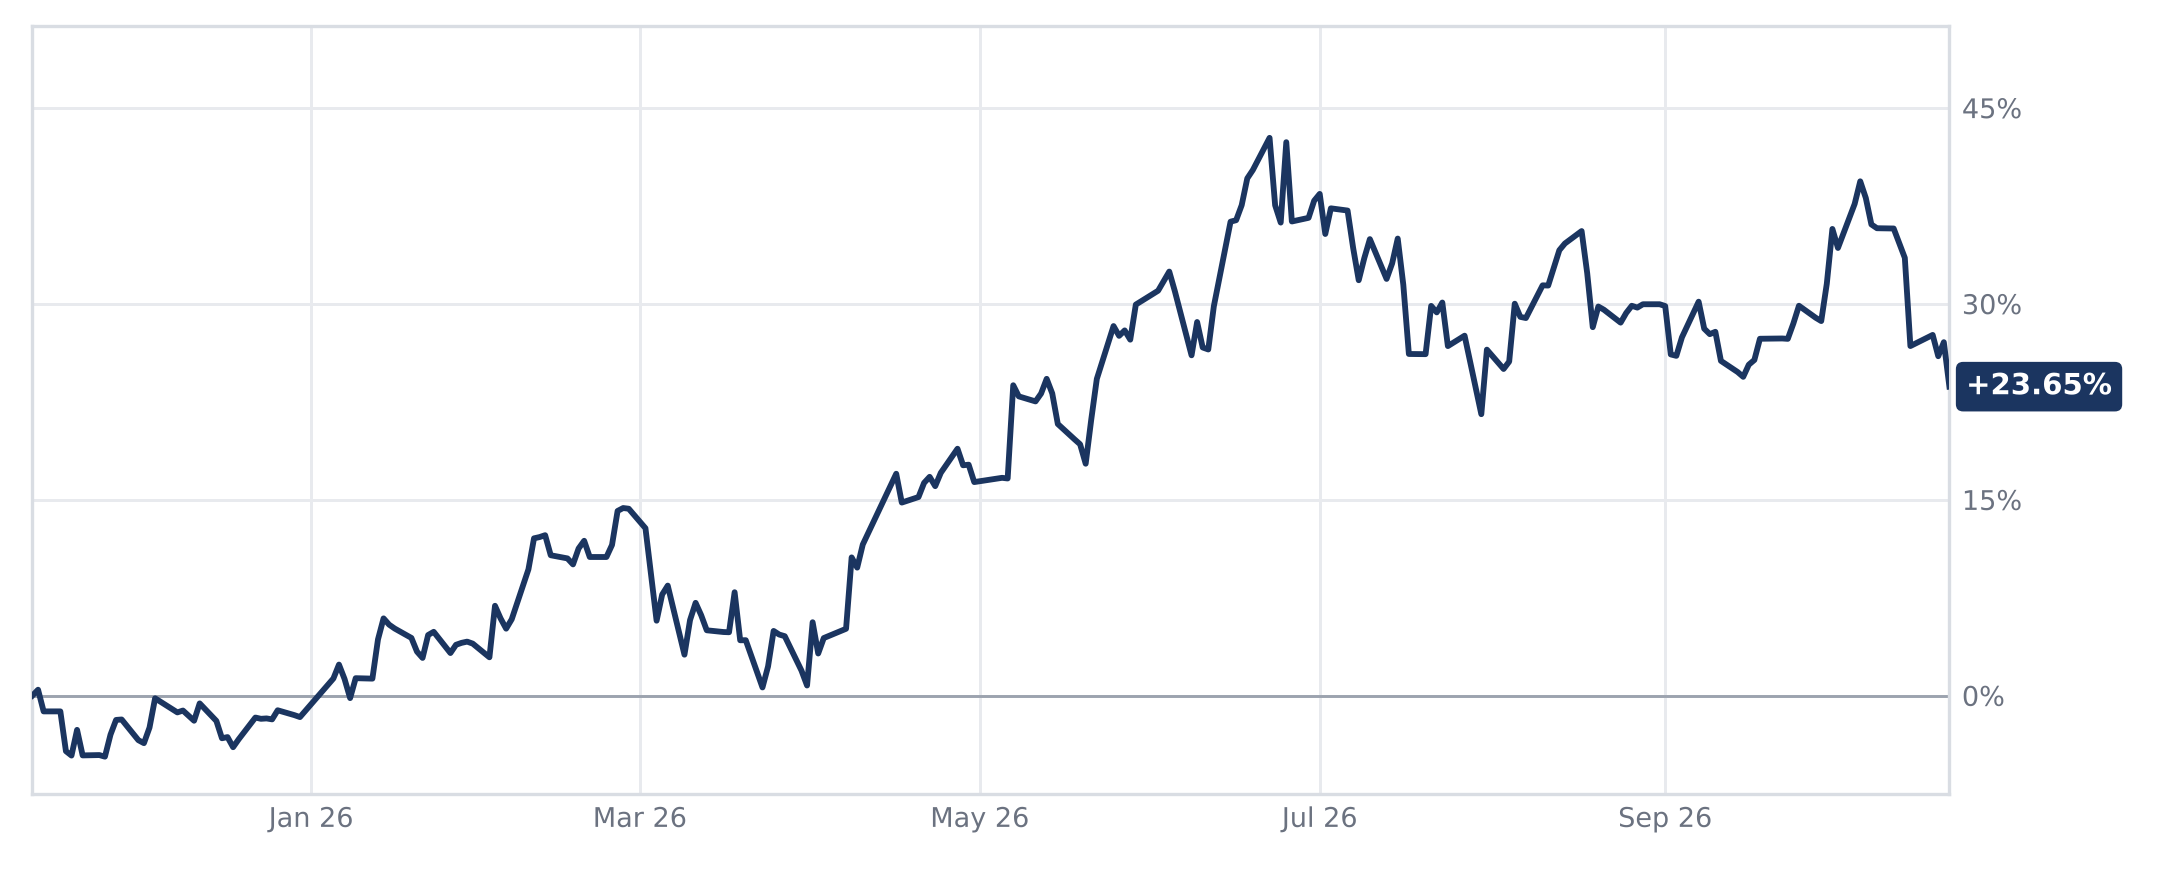
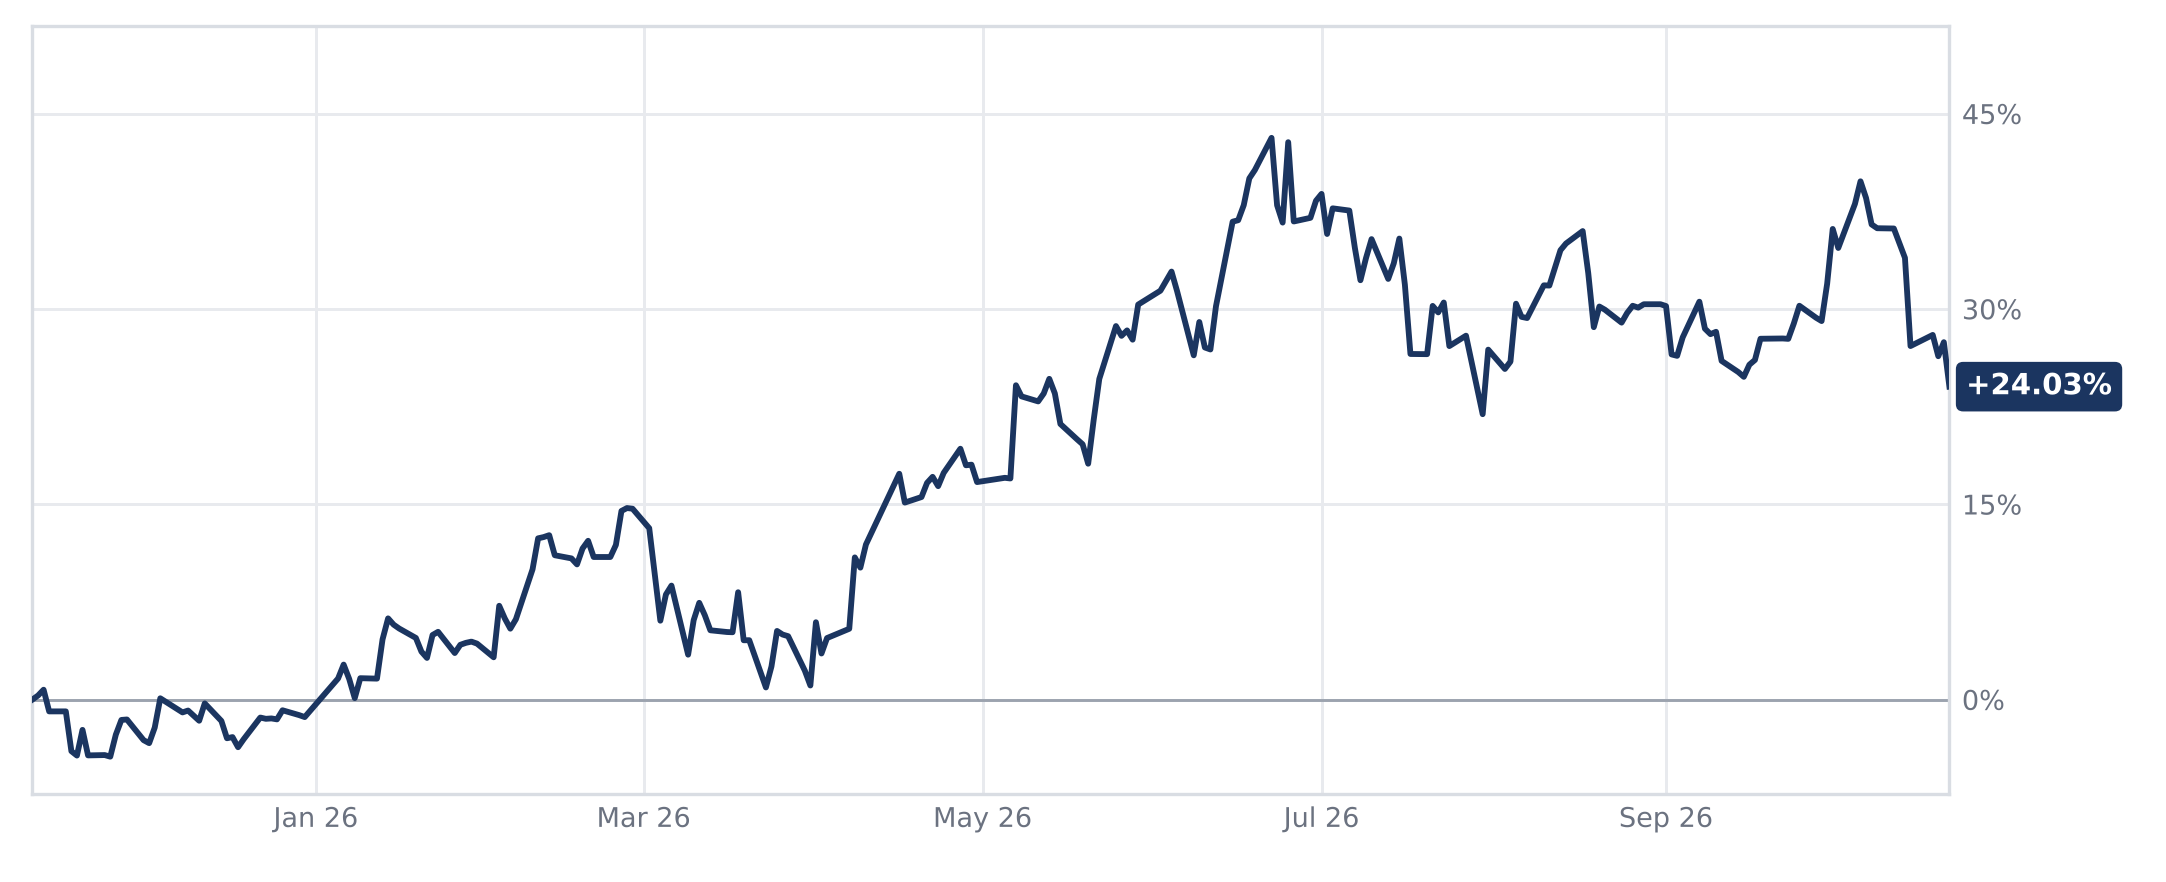
ใช้วันทำการถัดไปเฉพาะเมื่อวันแนะนำไม่มี NAV
Claude-Session: https://claude.ai/code/session_012hrKtuTeyfk9EuUED5ZPQ8

diff --git a/docs/index.html b/docs/index.html
@@ -169,11 +169,12 @@ const fmt = (v) => v == null ? "–" : (v > 0 ? "+" : "") + v.toFixed(2) + "%";
 const cls = (v) => v == null ? "" : v >= 0 ? "pos" : "neg";
 const thDate = (iso) => { if (!iso) return "–"; const [y,m,d] = iso.split("-"); return `${d}/${m}/${y}`; };
 
-/* NAV วันเริ่มต้น = NAV ที่ 0% บนกราฟ = วันทำการถัดจากวันแนะนำ */
+/* NAV วันเริ่มต้น = NAV ที่ 0% บนกราฟ ถ้าวันแนะนำไม่มี NAV จะเป็นวันทำการถัดไป (บอกวันที่กำกับไว้) */
 const baseDate = (f) => f.base_date || f.recommend_date;
 function startNavText(f) {
   if (f.base_nav == null) return "";
-  return ` · NAV วันเริ่มต้น ${f.base_nav.toFixed(4)} (ณ ${thDate(baseDate(f))})`;
+  const d = baseDate(f);
+  return ` · NAV วันเริ่มต้น ${f.base_nav.toFixed(4)}` + (d && d !== f.recommend_date ? ` (ณ ${thDate(d)})` : "");
 }
 
 function toast(msg) {

diff --git a/scripts/build_charts.py b/scripts/build_charts.py
@@ -76,8 +76,8 @@ def pct(a, b):
 
 
 def start_date(s: pd.Series, rec):
-    """วันเริ่มต้น = วันแรกที่มี NAV หลังวันแนะนำ (ไม่รวมวันแนะนำ)"""
-    after = s[s.index > pd.Timestamp(rec)]
+    """วันเริ่มต้น = วันแนะนำ ถ้าวันนั้นไม่มี NAV ใช้วันทำการถัดไป (แนะนำ 11/11 ไม่มี NAV → เริ่ม 12/11)"""
+    after = s[s.index >= pd.Timestamp(rec)]
     return after.index[0] if len(after) else s.index[-1]
 
 
@@ -87,7 +87,7 @@ def returns(s: pd.Series, rec):
     out = {"as_of": last_d.date().isoformat(), "nav": round(last, 4)}
     for k, days in [("1W", 7), ("1M", 30), ("3M", 91), ("6M", 182), ("1Y", 365)]:
         out[k] = pct(last, nav_on_or_before(s, last_d - timedelta(days=days)))
-    # ตั้งแต่แนะนำ: เทียบกับ NAV วันเริ่มต้น (วันทำการถัดจากวันแนะนำ) ให้ตรงกับ 0% บนกราฟ
+    # ตั้งแต่แนะนำ: เทียบกับ NAV วันเริ่มต้น ให้ตรงกับ 0% บนกราฟ
     out["since_rec"] = pct(last, float(s[start_date(s, rec)])) if rec else None
     return out
 
@@ -282,8 +282,8 @@ def main():
             "info": report.get("funds", {}).get(f["name"], {}),
         }
         if f["name"] in series:
-            # เริ่มกราฟที่ NAV วันทำการถัดจากวันแนะนำ (แนะนำ 11/11 → เริ่ม 12/11)
-            # ถ้ายังไม่มี NAV หลังวันแนะนำ (เพิ่งแนะนำ) ใช้ NAV ล่าสุดที่มีไปก่อน
+            # เริ่มกราฟที่ NAV วันแนะนำ ถ้าวันนั้นไม่มี NAV ใช้วันทำการถัดไป
+            # ถ้ายังไม่มี NAV ตั้งแต่วันแนะนำ (เพิ่งแนะนำ) ใช้ NAV ล่าสุดที่มีไปก่อน
             s0 = series[f["name"]]
             if f["rec"]:
                 start = start_date(s0, f["rec"])

diff --git a/README.md b/README.md
@@ -17,7 +17,7 @@
 | คอลัมน์ | ตัวอย่าง | หมายเหตุ |
 |---|---|---|
 | `fund` | `KKP GHC-A` | ชื่อย่อกอง หรือชื่อ class ตามที่ ก.ล.ต. ใช้ (ไม่สนช่องว่าง/ขีด/ตัวพิมพ์) |
-| `recommend_date` | `2025-11-11` | วันที่แนะนำ กราฟเริ่ม (0%) ที่ NAV วันทำการถัดไป เช่น แนะนำ 11/11 → เริ่ม 12/11 และใช้ NAV นั้นคำนวณผลตอบแทน "ตั้งแต่แนะนำ" |
+| `recommend_date` | `2025-11-11` | วันที่แนะนำ กราฟเริ่ม (0%) ที่ NAV วันนี้ ถ้าวันนั้นไม่มี NAV ใช้วันทำการถัดไป และใช้ NAV นั้นคำนวณผลตอบแทน "ตั้งแต่แนะนำ" |
 | `compare_with` | `KT-EMEQ-A; SCBEMEQA` | กองเปรียบเทียบ คั่นด้วย `;` (ไม่ใส่ก็ได้) |
 
 ระบบหา `proj_id` และ class ให้เองจาก `/v2/fund/general-info/profiles`
